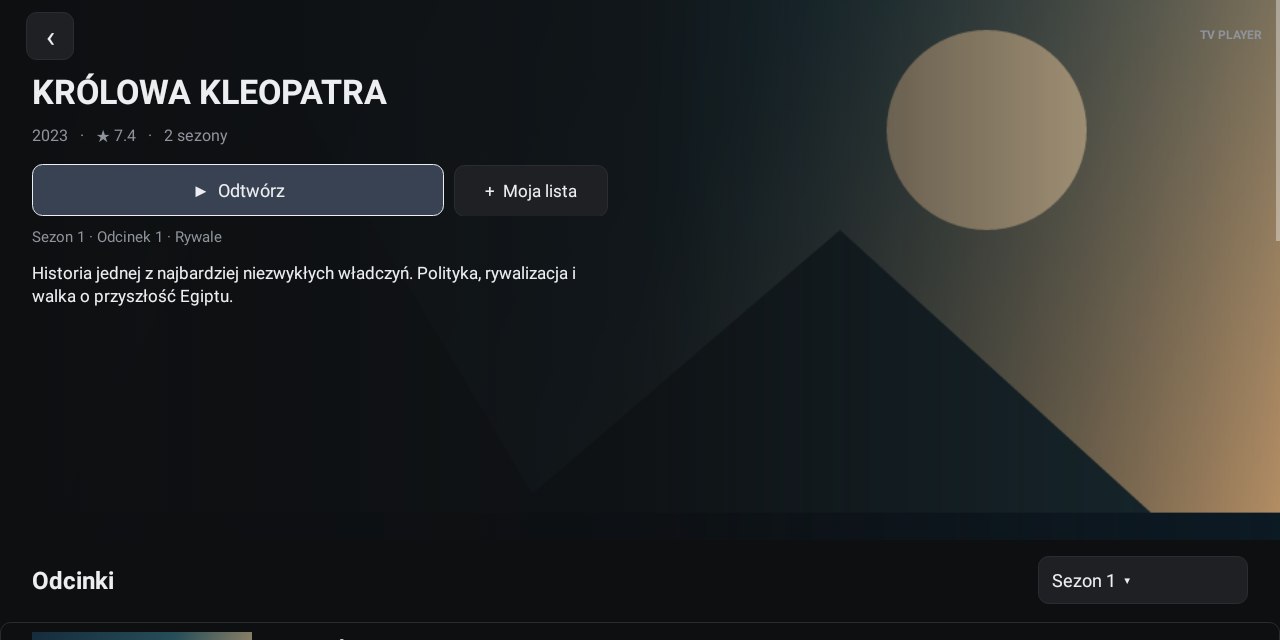
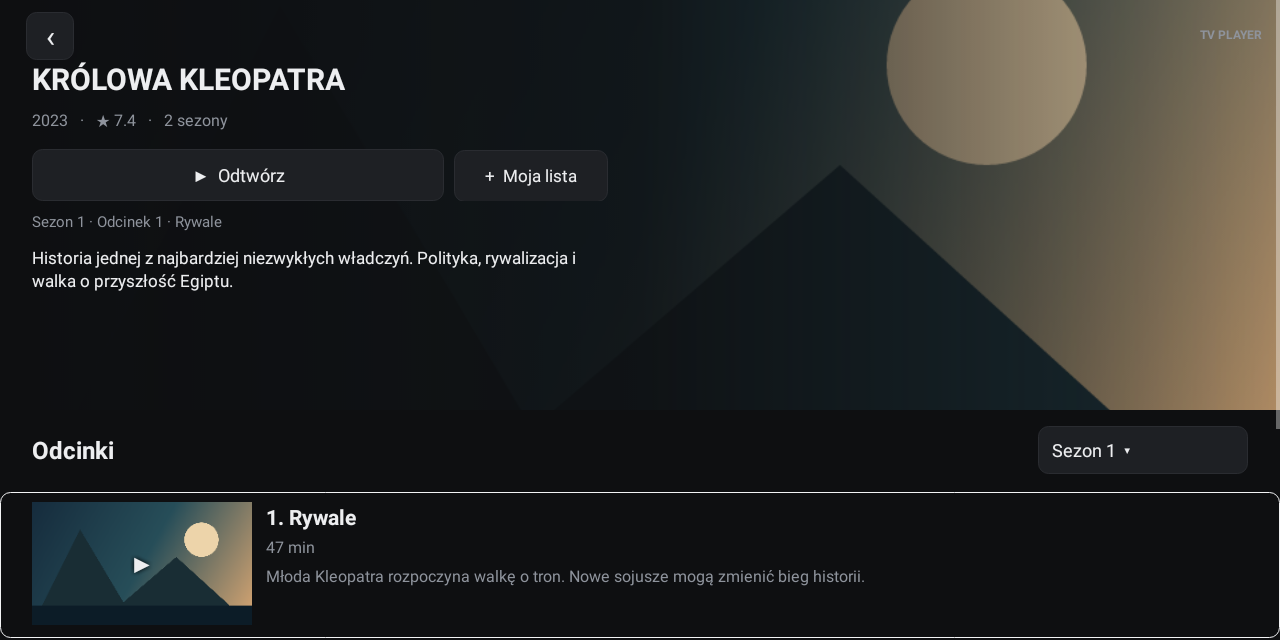
Document native phone and TV series detail previews

diff --git a/SERIES-PREVIEW.md b/SERIES-PREVIEW.md
@@ -1,0 +1,13 @@
+# TV Player — ekran serialu
+
+Zrzuty natywnego interfejsu z emulatorów. Dane i grafiki są testowe; aplikacja pobiera metadane z własnego źródła Xtream użytkownika.
+
+## Telefon
+
+![Szczegóły serialu](series-details.png)
+
+![Wybór drugiego sezonu](series-season2.png)
+
+## Fire TV / Android TV
+
+![Ekran serialu na TV](series-television.png)
